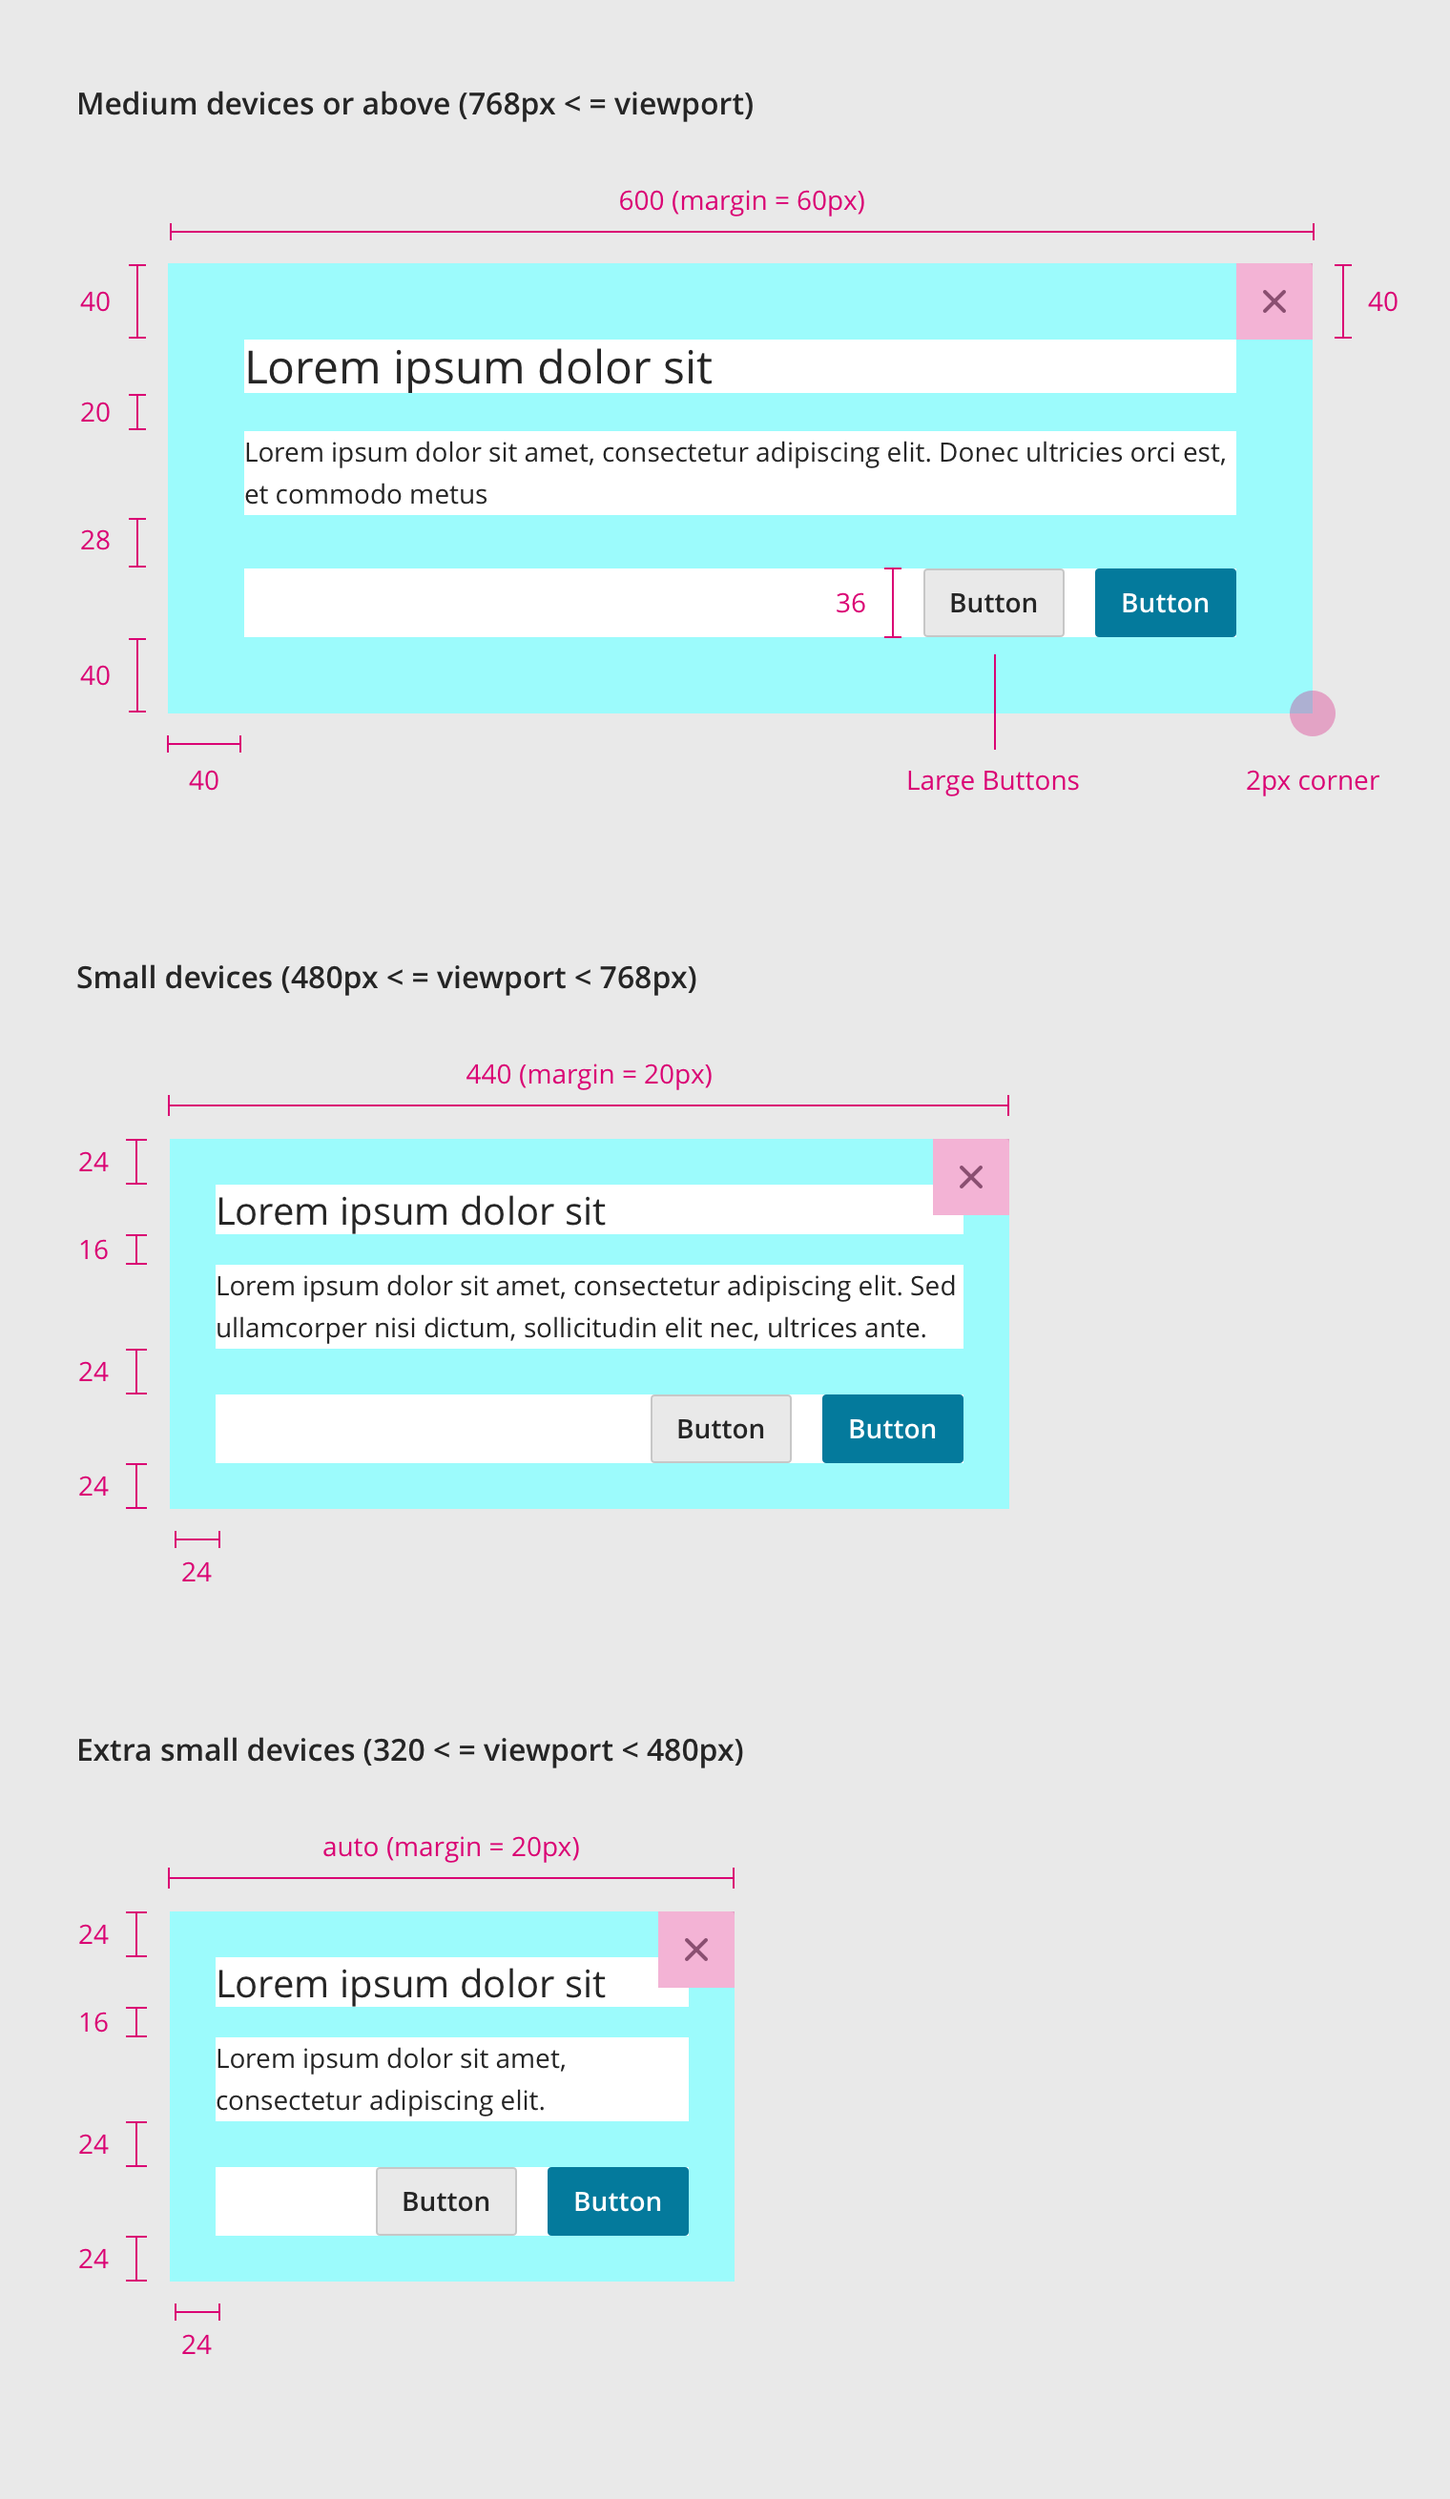
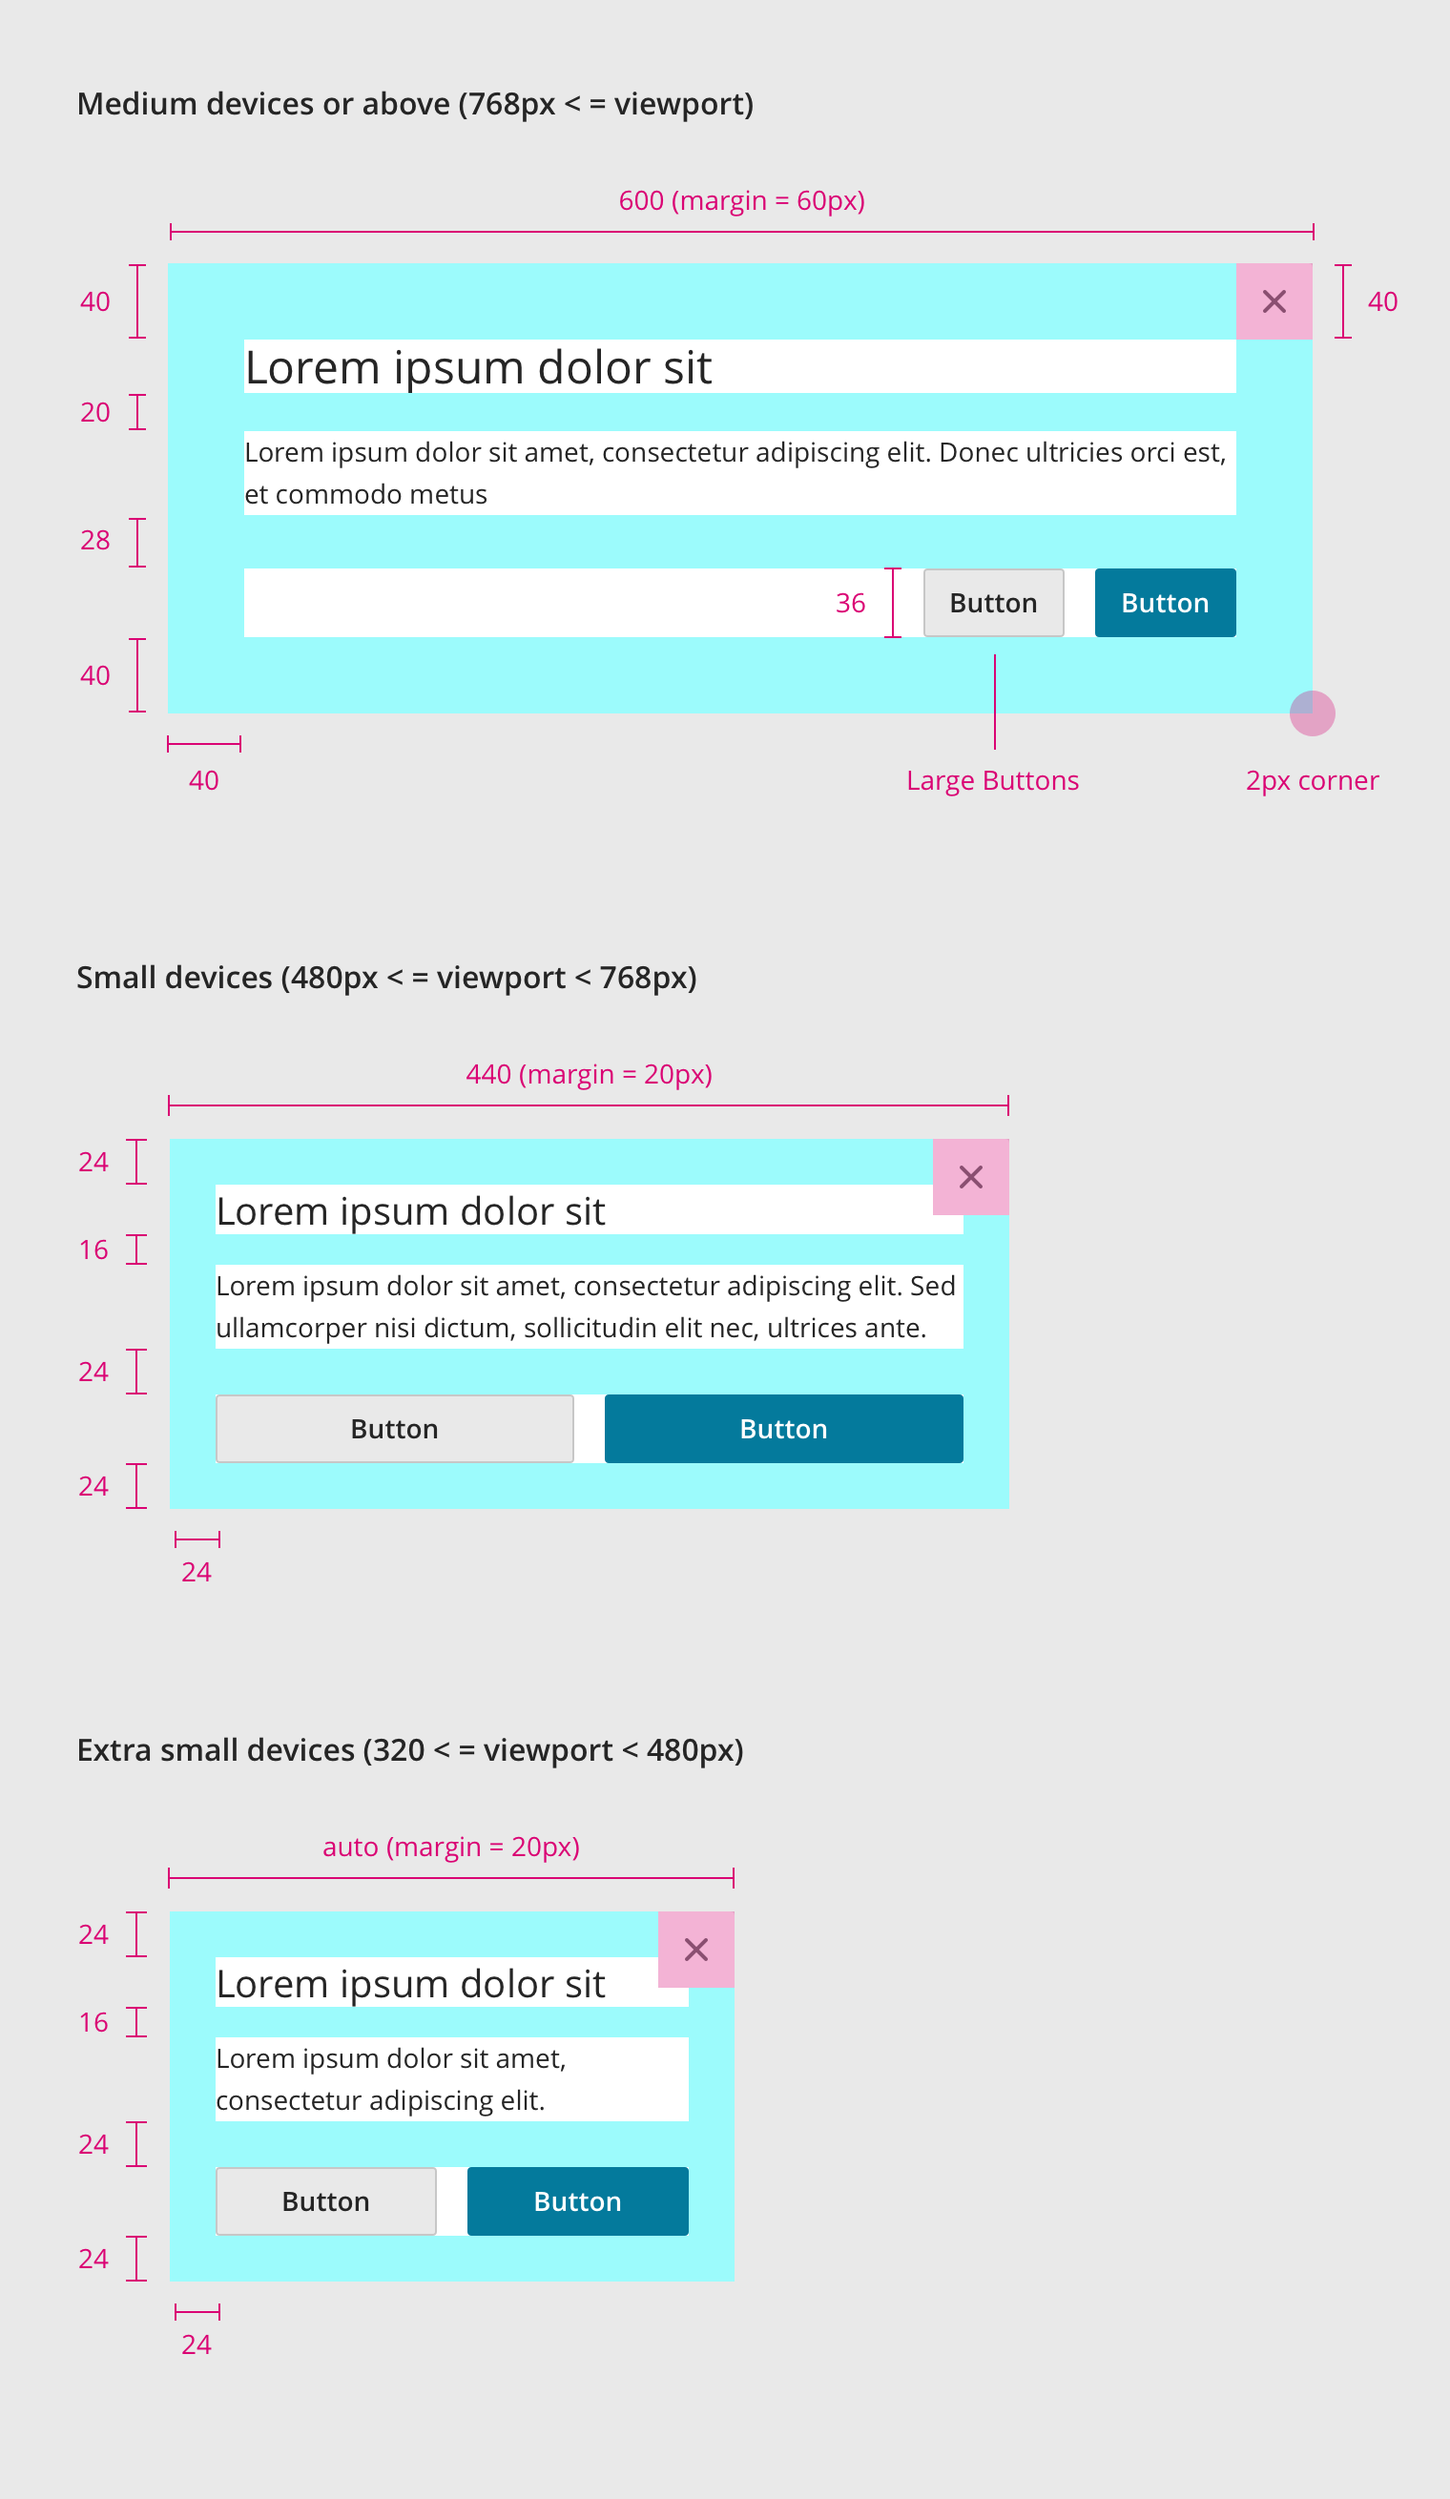
edit content and change margin for sm from 40 to 20px

diff --git a/c/modal/v2.0.1/index.md b/c/modal/v2.0.1/index.md
@@ -176,11 +176,10 @@ blocks:
     text: |
 
 
-      The layout changes at the following breakpoints. In short, the modal has a more compact spacing, wider buttons, and smaller font size on narrow devices.
+      The layout changes at the following breakpoints. The modal has a more compact spacing, wider buttons, and smaller font size for header text on narrower devices.
 
       - 768px
       - 480px
-      - 320px
 
       For native mobile apps, use the native modal. The guideline in this documentation is for responsive web mobile design.
 
@@ -201,10 +200,8 @@ blocks:
 
       ### Breakpoints
 
-
-      - md = Medium Devices and Above (>= 768px)
-      - sm = Small Devices (480px - 768px)
-      - xs = Extra Small Devices (320px - 480px)
+      - 768px
+      - 480px
 
 
   - type: two column
@@ -216,18 +213,17 @@ blocks:
         - xs: Auto
 
       Margin
-      : - md: 60px
-        - sm: 40px
+      : - md and up: 60px
+        - sm: 20px
         - xs: 20px
 
       Spacing
       : - md devices have a more generous spacing (see illustration on the right)
         - sm and xs devices have a more compact layout (see illustration on the left)
 
-      Header
+      Header text
       : - md: [Large Section Heading](/design/c/typography/v2.0.0/#rd-ui-headings-section-large) 24px
-        - sm: [Basic Section Heading](/design/c/typography/v2.0.0/#rd-ui-headings-section-basic) 20px
-        - xs: [Basic Section Heading](/design/c/typography/v2.0.0/#rd-ui-headings-section-basic) 20px
+        - sm and xs: [Basic Section Heading](/design/c/typography/v2.0.0/#rd-ui-headings-section-basic) 20px
         - [Charcoal](/design/c/colors/v2.0.0-beta.7/#rd-charcoal)
 
       Content
@@ -242,7 +238,8 @@ blocks:
 
       "X" icon
       : - Size: [remove-sm-24](/design/c/icons/v2.0.0-beta.4)
-        - Touch target: 36px (See notes below)
+        - Touch target: 40x40px
+        - [Medium Gray](/design/c/colors/v2.0.0-beta.7/#rd-medium-gray)
 
       Overlay
       : - [Charcoal](/design/c/colors/v2.0.0-beta.7/#rd-charcoal)
@@ -252,13 +249,7 @@ blocks:
       : - Follow [the default behaviors for "X" defined in the drawer](/design/c/drawer/v2.0.0-beta.2)
         - Follow [the default behaviors for buttons](/design/c/buttons/v2.1.0-beta.3)
 
-
-      __Note: The touch target for "X"__ is smaller than the minimal size of 44px because there is additional touch area outside the modal to accommodate for that. This allows more room for heading.
-
       __Use the native modal for native mobile apps.__ The specs in this documentation is for responsive web mobile design.
-
-      __[See specs on Zeplin](https://zpl.io/1I2TYO).__ For access, contact Linda (linda.tsai@pearson.com)
-
 
 
     contents:
@@ -306,9 +297,8 @@ blocks:
 
       ### Responsive Buttons  
 
-      - __Medium Devices and Above (>= 768px):__ Default (fixed padding)
-      - __Small Devices (480px - 768px):__ Expanded (takes up the full width of the container)
-      - __Extra Small Devices (320px - 480px):__ Expanded
+      - __md and up:__ Default (fixed padding)
+      - __sm & xs:__ Expanded (filling up the full width of the container)
 
 
     contents:
